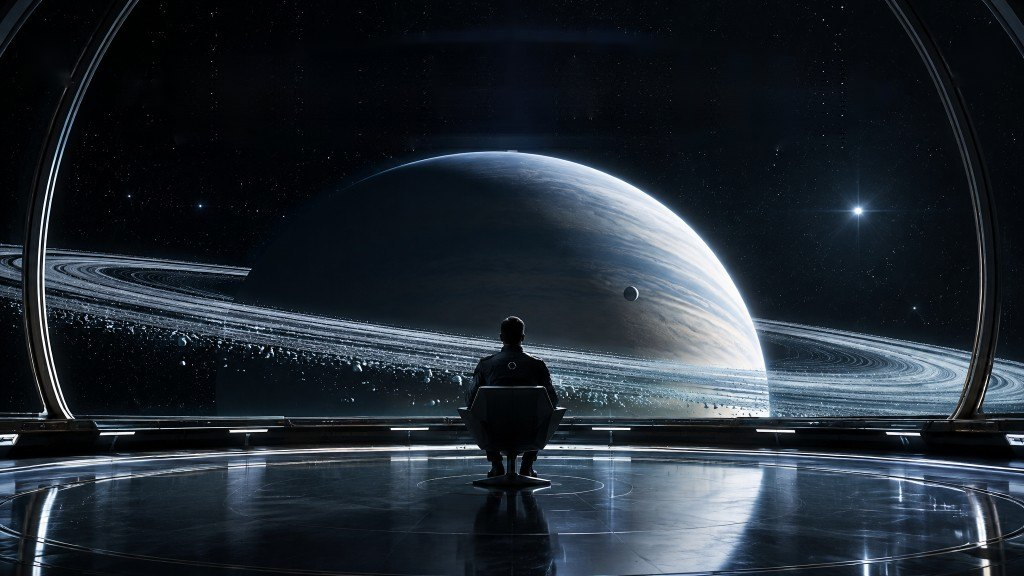
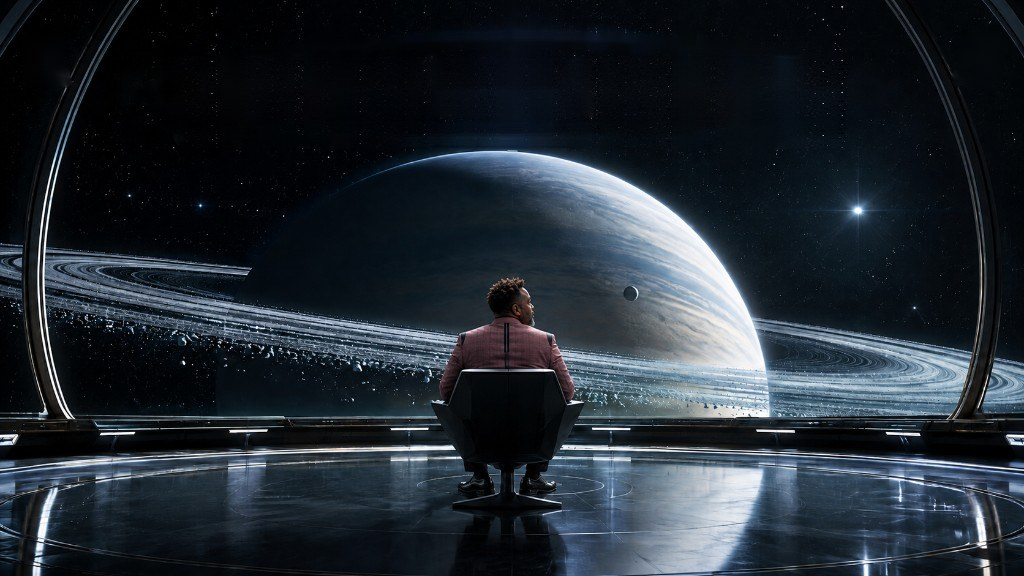
Use rose-jacket observatory art for homepage hero

diff --git a/app/src/components/site/cosmic-hero.tsx b/app/src/components/site/cosmic-hero.tsx
@@ -1,7 +1,7 @@
 import { pillarBowls, studio } from "@/content/catalog";
 
 const plateAlt =
-  "A lone figure sits in a chair on a starship observation deck, facing a giant ringed planet through a tall arched window, its light pooling on a mirror-black floor.";
+  "A man in a rose-colored jacket sits in a chair on a reflective observation deck, facing a giant ringed planet through a tall arched window.";
 
 /** Homepage title sequence: the observation deck plate with the wordmark, orbit, and pillar row drawn live on top. */
 export function CosmicHero({ menuId }: { menuId: string }) {
